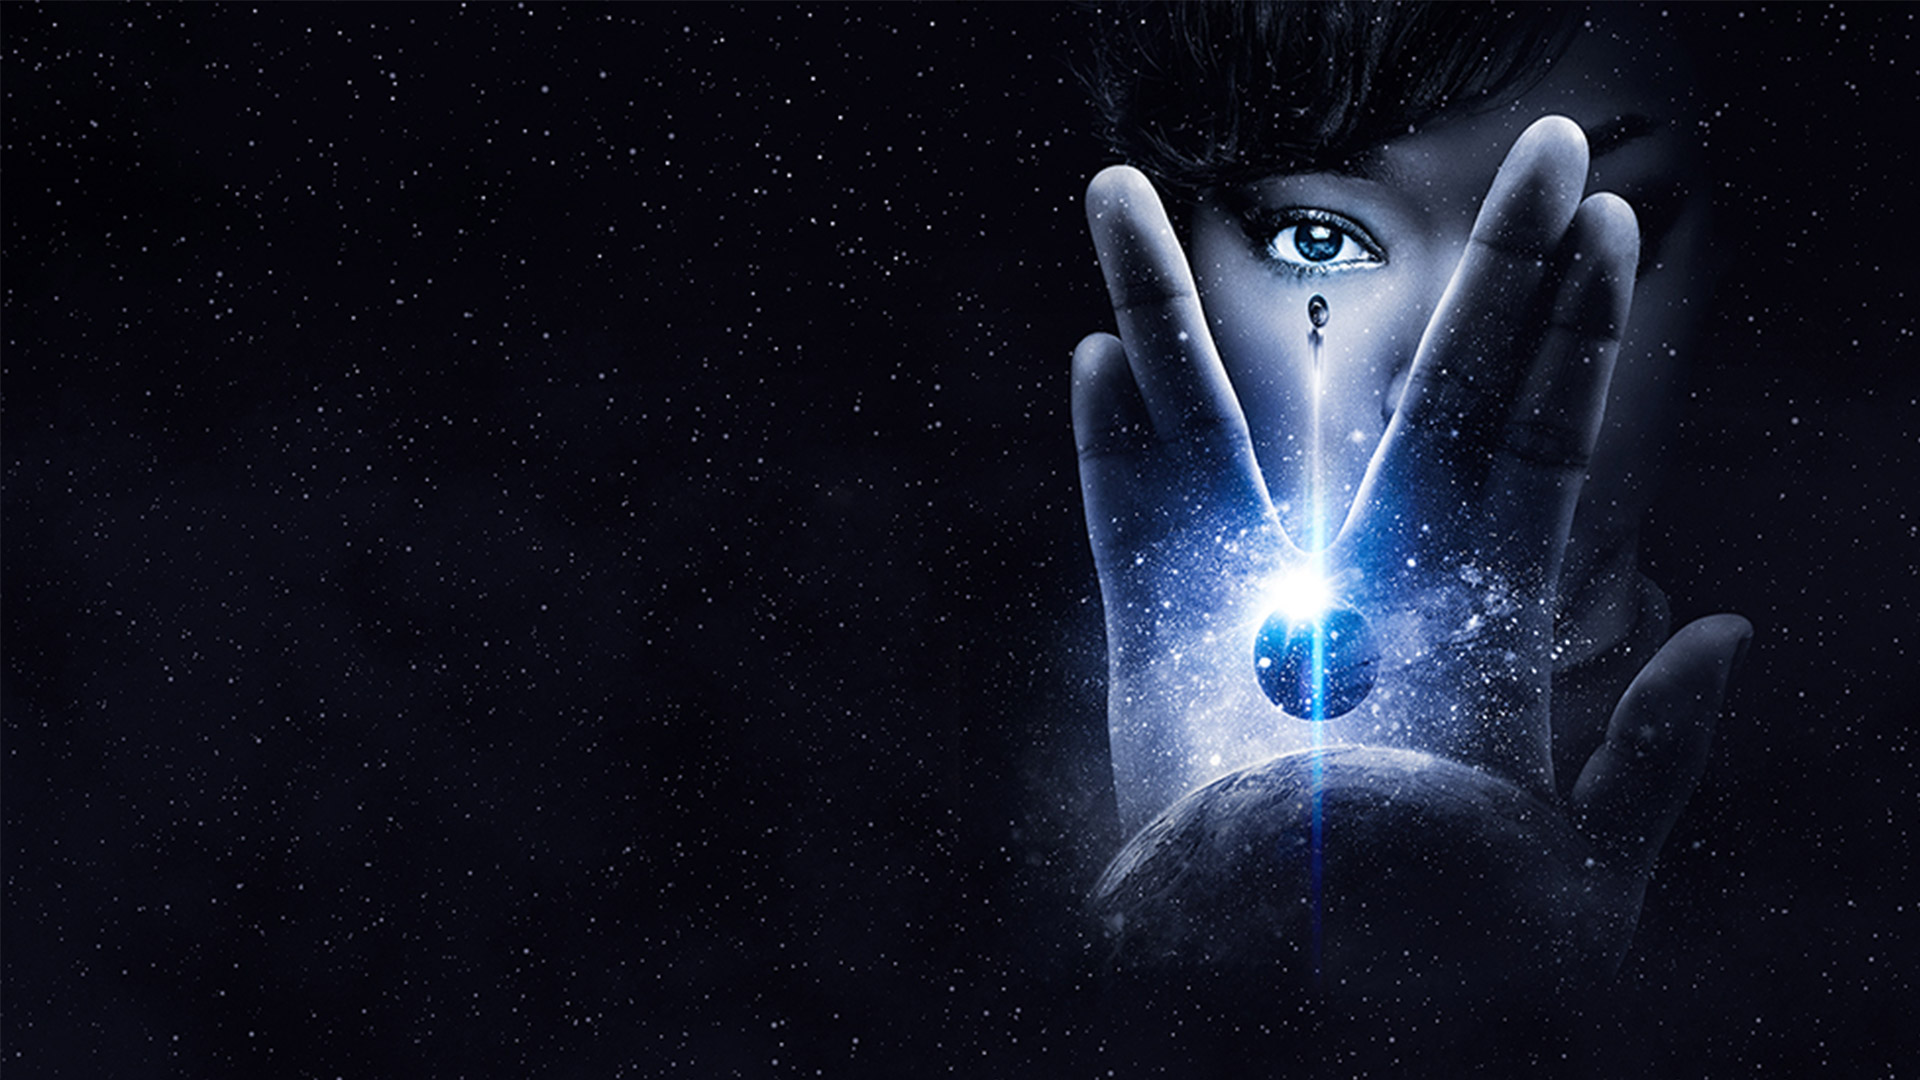
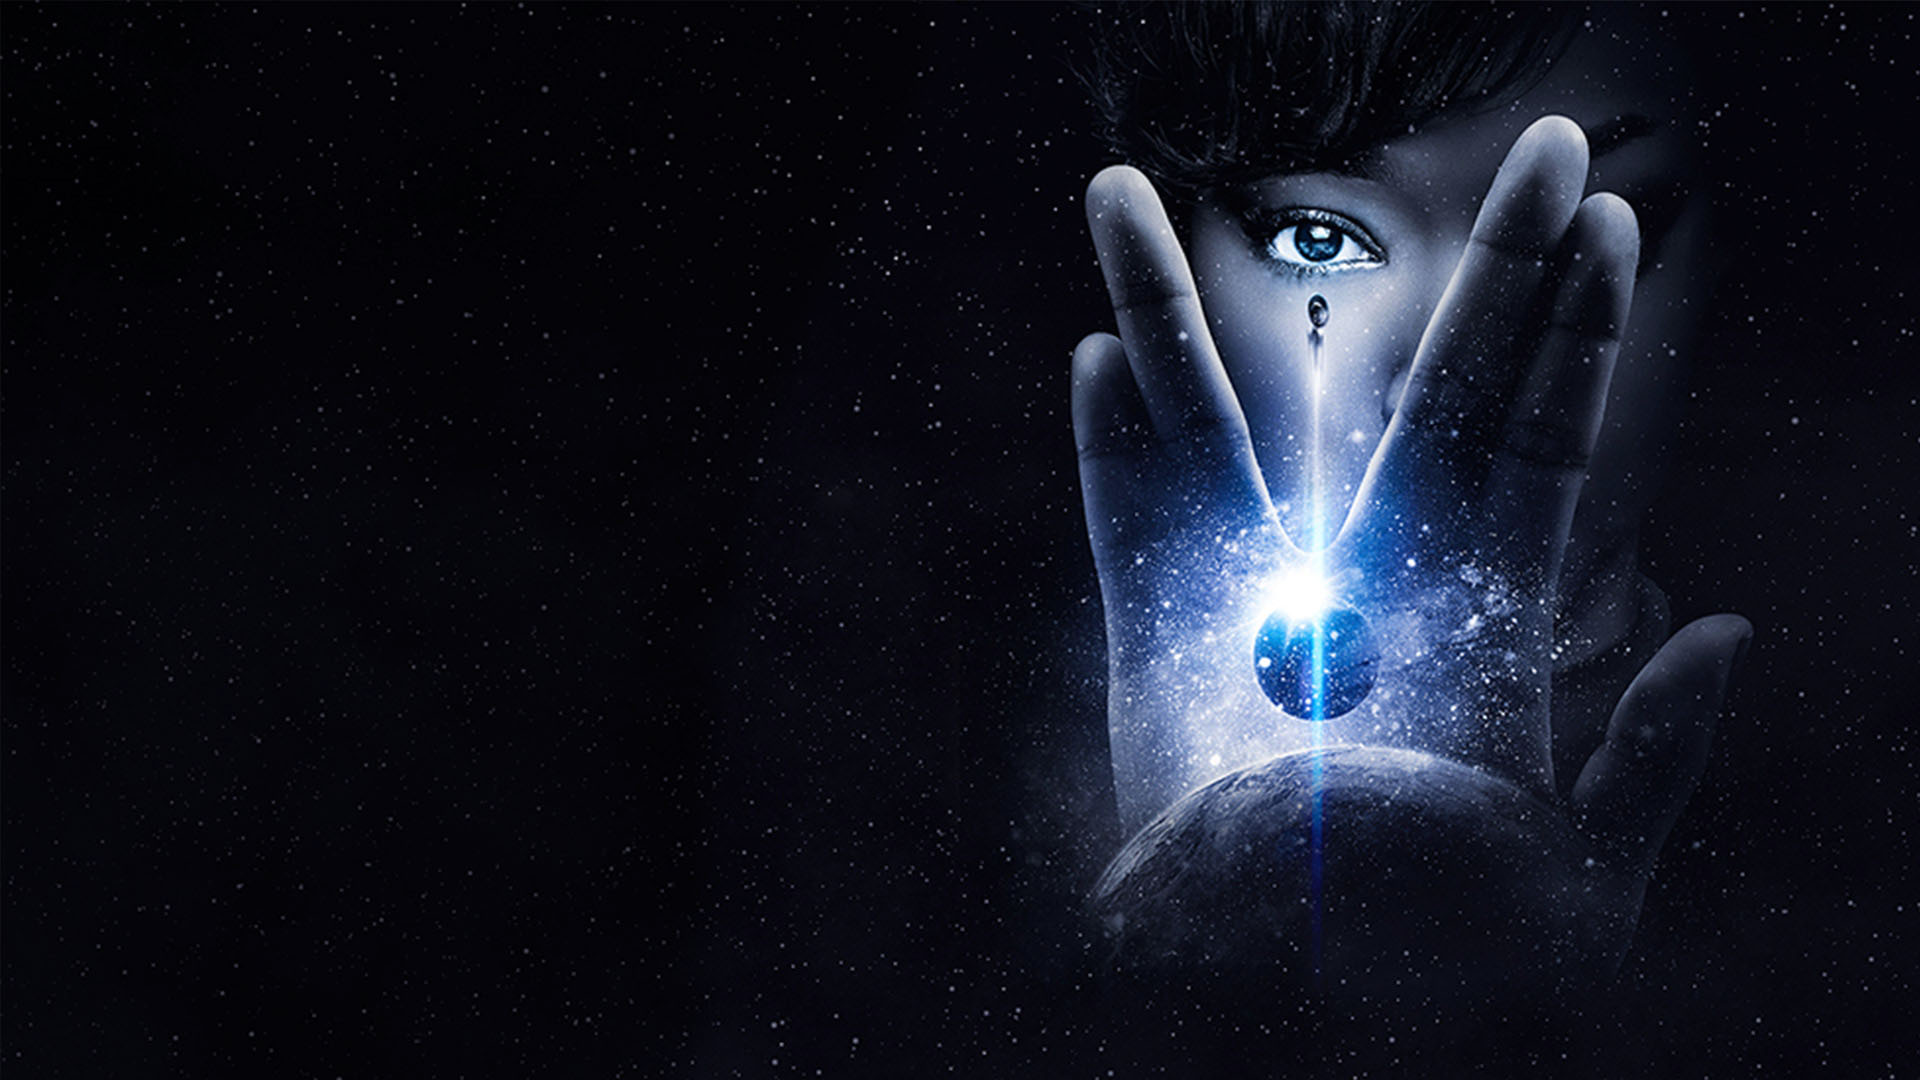
301020
301020

diff --git a/styles/main.css b/styles/main.css
@@ -19,17 +19,23 @@ body{
 
 header .container {
     display: flex;
-    flex-direction: row;
     align-items: center;
-    justify-content: space-between;
-    margin-right: 20px;
+    width: 100%;
 }
 
 header .logo{
+    
     color: var(--vermelho);
     font-family: 'Arial Black', Times;
     font-size: 40px;
-    margin-left: 10px;
+    margin: 0 20px 0 10px;
+}
+
+header nav{
+    display: flex;
+    flex-direction: row;
+    align-items: center;
+    margin-right: 20px;
 }
 
 header nav a{
@@ -41,13 +47,120 @@ header nav a{
 header nav a:hover {
     color: #fff;
 }
+header .navegation{
+    display: flex;
+    flex-direction: row;
+    align-items: center;
+    margin: 0 20px 0 auto;
+}
+header .navegation .fas{
+    text-decoration: none;
+    margin-right: 20px;
+}
+header .navegation .profile{
+    background-size: cover;
+    background-repeat: no-repeat;
+    border-radius: 8px;
+    height: 35px;
+    width: 35px;
+}
+header .navegation .profile:hover{
+    transform: scale(1.20);
+    transition: transform 0.5s;
+}
+
+header .navegation .profile:active{
+    height: 45px;
+    width: 45px;
+}
+
+/*trocar perfil*/
+[hidden]{
+    display: none !important
+}
+#troca-profile{
+    background-color: rgb(10, 10, 10);
+    height: 500px;
+    width: 100%;
+
+    display: flex;
+    flex-direction: column;
+    justify-content: center;
+    align-items: center;  
+}
+#troca-profile .titulo-profiles{
+    font-size: 40px;
+    margin-bottom: 20px;
+}
+
+#troca-profile .link, .link2{
+    text-decoration: none;
+}
+
+#troca-profile .lista-profile .profile-lista{
+    width: 100px;
+    height: 100px;
+    margin: 25px 10px;
+}
+#troca-profile .lista-profile .profile-lista:hover{
+    transform: scale(1.10);
+    transition: transform 0.5s;
+}
+
+#troca-profile .nome-profiles{
+    display:flex;
+    justify-content: space-evenly;
+    
+}
+#troca-profile .nome-profiles div{
+    margin: 0px 35px 0 45px;
+    font-size: 20px;
+    font-family: 'Trebuchet MS', Arial, sans-serif;
+}
+
+#troca-profile .edit-profiles{
+    display:flex;
+    justify-content: space-evenly;
+    
+}
+#troca-profile .edit-profiles div{
+    margin: 18px 55px 0 55px;
+    font-size: 20px;
+}
+
+#troca-profile .edit-profiles .edit-perfil-um:hover{
+    transform: scale(1.25);
+    transition: border 0.5s;
+    
+}
+#troca-profile .edit-profiles .edit-perfil-dois:hover{
+    transform: scale(1.25);
+    transition: transform 0.5s;
+}
+
+#troca-profile .add-profile {
+    color: rgb(211, 211, 211);
+    font-size: 40px;
+    margin: 36px 0 16px 0;
+}
+#troca-profile .add-profile:hover {
+    color: white;
+    transform: scale(1.20);
+    transition: transform 0.5s;
+    transition: color 1s;
+}
+
+#troca-profile .add {
+    font-size: 18px;
+}
+
 
 /*principal*/
 main .principal{
     font-size: 16px;
-    background: linear-gradient(rgba(0,0,0,.50),rgba(0,0,0,.50)100%), url('../img/capa-star-trek.jpg');
+    background: url('../img/capa-star-trek.jpg');
     
-    height: 400px;
+    height: 500px;
     background-size: cover;
 
     display: flex;

diff --git a/styles/popup.css b/styles/popup.css
@@ -1,0 +1,109 @@
+.modal-container {
+    width: 100vw;
+    height: 100vh;
+    background: rgba(0,0,0,.5);
+    position: fixed;
+    top: 0px;
+    left: 0px;
+    z-index: 2000;
+    display: none;
+    flex-direction: column;
+    justify-content: center;
+    align-items: center;
+
+}
+
+.modal-container.mostrar {
+    display: flex;
+}
+
+.modal {
+    background: rgb(20, 20, 20);
+    width: 50%;
+    height: 85%;
+    min-width: 300px;
+    padding: 20px 40px;
+    border: 8px solid #161616;
+    box-shadow: 0 0 0 6px rgb(20, 20, 20);
+    position: relative;
+}
+
+@keyframes modal {
+    from {
+        opacity: 0;
+        transform: translate3d(0, -60px, 0);
+    }
+    to{
+          opacity: 1;
+          transform: translate3d(0,0,0);
+     }
+}
+
+.mostrar .modal {
+    animation: modal .3s;
+}
+
+.modal .modal-image{
+    width: 100%;
+    height: 70%;
+}
+
+.modal .titulo{
+    margin: 10px;
+    display: flex;
+    font-size: 40px;
+    justify-content: center;
+    align-items: center;
+}
+.modal .sub-titulo{
+    margin: 20px;
+    display: flex;
+    justify-content: center;
+    align-items: center;
+}
+
+.modal .icons{
+    font-size: 20px;
+    display: flex;
+    justify-content: space-evenly;
+    align-items: center;
+    margin-top: 30px;
+}
+.modal .icons .fa-play:hover{
+    transform: scale(1.70);
+    transition: transform 0.5s;
+}
+.modal .icons .fa-info-circle:hover{
+    transform: scale(1.70);
+    transition: transform 0.5s;
+}
+.modal .icons .fa-plus-circle:hover{
+    transform: scale(1.70);
+    transition: transform 0.5s;
+}
+.modal .icons .fa-thumbs-up:hover{
+    transform: scale(1.70);
+    transition: transform 0.5s;
+}
+.modal .icons .fa-thumbs-down:hover{
+    transform: scale(1.70);
+    transition: transform 0.5s;
+}
+
+.fechar {
+    position: absolute;
+    font-size: 1.2em;
+    top: -30px;
+    right: -30px;
+    width: 50px;
+    height: 50px;
+    border-radius: 50%;
+    border: 4px solid white;
+    background:  #c90000;
+    color: white;
+    font-family: 'Trebuchet MS', Arial, sans-serif; 
+    cursor: pointer;
+    box-shadow: 0 4px 4px 0 rgba(0,0,0,.3)
+};
+
+

diff --git a/js/popup.js b/js/popup.js
@@ -1,0 +1,17 @@
+function iniciaModal(modalID){
+    const modal = document.getElementById(modalID);
+    if(modal){
+        modal.classList.add('mostrar');
+        modal.addEventListener('click', (e) => {
+            if(e.target.id == modalID || e.target.className == 'fechar' || e.target.id == 'fechar'){
+                modal.classList.remove('mostrar');
+            }
+        }); 
+    }
+    
+}
+
+const popUp = document.querySelector('.principal .botoes .botao');
+popUp.addEventListener('click', () => iniciaModal('pop-up'))
+
+

diff --git a/index_profile_2.html b/index_profile_2.html
@@ -32,7 +32,7 @@
                 <i class="fas fa-search"></i>
                 <i class="fas fa-bell"></i>
                 <div class="perfil">
-                    <img src="./img/profile.png" alt="profile" class="profile">
+                    <img src="./img/profile2.png" alt="profile" class="profile">
                 </div>
                 
             </div>         

diff --git a/js/profile.js b/js/profile.js
@@ -1,0 +1,17 @@
+const profiles = document.querySelectorAll('.perfil');
+
+function navTrocarPerfil(){
+    this.classList.toggle('trocarPerfil');
+    $("#troca-profile").removeAttr("hidden");
+}
+profiles.forEach((profile) => {
+    profile.addEventListener('click', navTrocarPerfil);
+});
+
+
+
+
+
+
+
+
